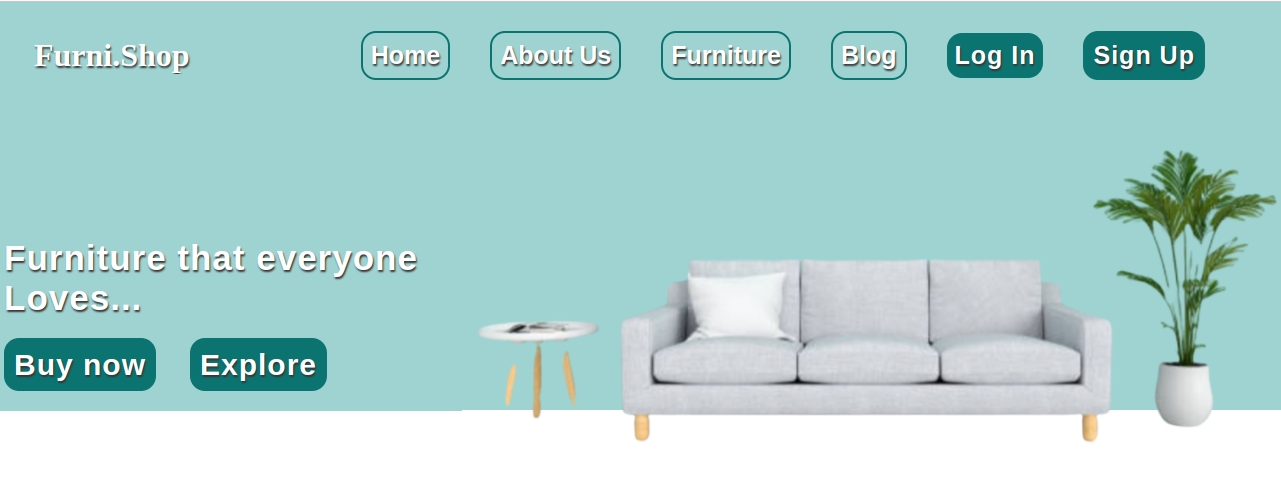
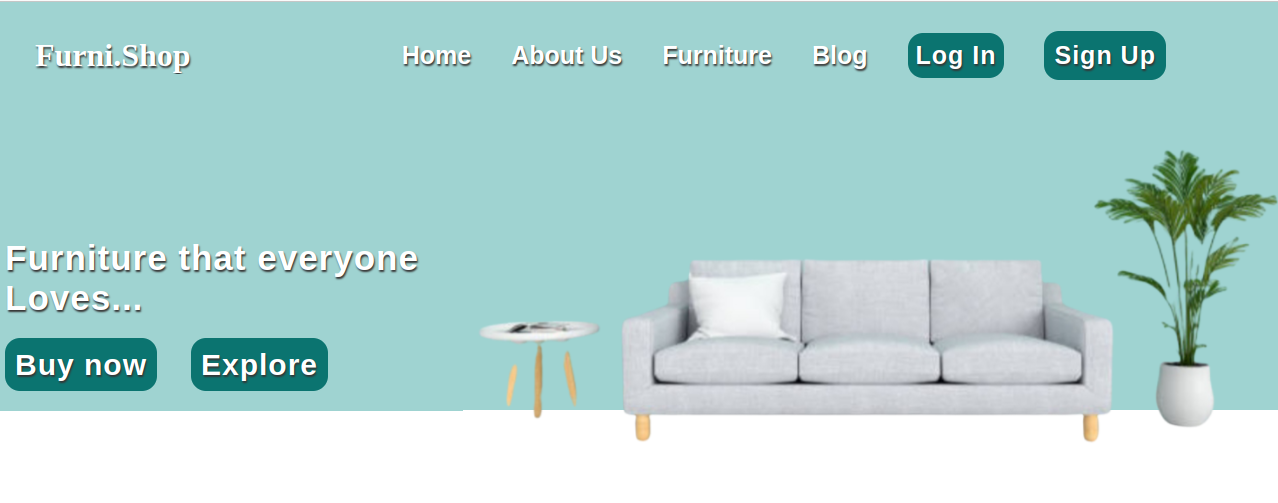
completely done

diff --git a/Project_furnishop/style.css b/Project_furnishop/style.css
@@ -1,5 +1,4 @@
-*{
-    margin: 0%;
+*{  margin: 0%;
     padding: 0%;
     }
 
@@ -56,17 +55,13 @@
 
  .same{
      color: #fff;
-     border: 2px solid #0b7470;
-     padding: 8px;
-     border-radius: 15px;
-     
+       
  }
 
 
 
 .log{
     letter-spacing: 1px;
-   
     padding: 8px;
     border-radius: 15px; 
     text-shadow: 1px 2px 2px rgb(53, 52, 52);
@@ -79,10 +74,8 @@
 .sign{
 
     letter-spacing: 1px;
-    
     padding: 10px;
     border-radius: 15px; 
-
     text-shadow: 1px 2px 2px rgb(53, 52, 52);
     background-color: #0b7470;
     color: #fff;
@@ -94,12 +87,10 @@
  main{
     background:linear-gradient( to bottom,#9fd3d1 70%,#fff 30%);
     height:80vh ;
-    
-    
+     
  }
 
- .up{
-    
+ .up{    
     display: flex;
     justify-content: center;
     align-items: center;
@@ -107,8 +98,7 @@
 
  }
  .up h2{
-     color: #fff;
-    
+    color: #fff;
     font-size: 35px;
     font-weight: bold;
     font-family: helvetica;
@@ -119,12 +109,12 @@
  }
 
  .buy{
+    color: #fff;
+    background-color: #0b7470;
     font-size: 30px;
     font-weight: 900;
     font-family: helvetica;
     text-decoration: none;
-    color: #fff;
-    background-color: #0b7470;
     letter-spacing: 1px;
     margin: 20px;
     padding: 10px;
@@ -134,12 +124,12 @@
  }
 
  .ex{
+    color: #fff;
+    background-color: #0b7470;
     font-size: 30px;
     font-weight: 900;
     font-family: helvetica;
     text-decoration: none;
-    background-color: #0b7470;
-    color: #fff;
     letter-spacing: 1px;
     margin-left: 10px;
     padding: 10px;
@@ -150,10 +140,9 @@
 
 
  .up img{
-    background:linear-gradient( to bottom,#9FD3D1 75%,#FFF 25%);
-    
     height: 400px;
     width: 820px;
+    background:linear-gradient( to bottom,#9FD3D1 75%,#FFF 25%);
  }
 
  .down{
@@ -167,29 +156,27 @@
      font-family: helvetica;
      padding: 30px;
      background-color:rgb(211, 211, 216) ;
-    width: 25%;
-    border: 2px solid grey ;
-    border-radius: 15px;
-    transition: all 0.9s linear;
+     border: 2px solid grey ;
+     border-radius: 15px;
+     transition: all 0.9s linear;
  }
 
- .text:hover{
-     transform: scale(0.9);
- }
+ .text:hover{transform: scale(0.9);}
+
+
  .visit{
      display: grid;
-     text-align: center;
-     
+     text-align: center;   
  }
 
 
  .visit1{
+    background-color: #0b7470;
+    color: #fff;
     font-size: 20px;
     font-weight: 900;
     font-family: helvetica;
     text-decoration: none;
-    background-color: #0b7470;
-    color: #fff;
     letter-spacing: 1px;
     padding: 15px;
     margin-top: 20px;
@@ -199,12 +186,12 @@
 
  
  .visit2{
+    background-color: #0b7470;
+    color: #fff;
     font-size: 20px;
     font-weight: 900;
     font-family: helvetica;
     text-decoration: none;
-    background-color: #0b7470;
-    color: #fff;
     letter-spacing: 1px;
     margin-top: 20px;
     padding-top: 100px;
@@ -213,8 +200,9 @@
     text-shadow: 1px 2px 2px rgb(53, 52, 52);
 }
 
- .chair{background-color:rgb(211, 211, 216) ;
+ .chair{
     width: 25%;
+    background-color:rgb(211, 211, 216) ;
     border: 2px solid grey ;
     border-radius: 15px;
     transition:all 0.9s linear ;
@@ -224,6 +212,8 @@
 .chair:hover{
     transform: scale(0.9);
 }
+
+
 .chair img{
     height: 250px;
     width: 380px;
@@ -241,22 +231,23 @@
 
 
 .bed{
-    background-color: rgb(211, 211, 216);
         width: 25%;
+        background-color:rgb(211, 211, 216) ;
         border: 2px solid grey ;
         border-radius: 15px;
         transition: all 0.9s linear;
     }
-    .bed:hover{
+
+.bed:hover{
         transform: scale(0.9);
     }
 
-    .bed img{
+.bed img{
         height: 250px;
         width: 300px;
     }
     
-    .bed h5{
+.bed h5{
         font-size: 25px;
         font-family: helvetica;
         font-weight: 500;
@@ -264,23 +255,25 @@
         margin-top: 10px;
     }  
 
-    .mirror{background-color:rgb(211, 211, 216);
+.mirror{
         width: 25%;
+        background-color:rgb(211, 211, 216) ;
         border: 2px solid grey ;
         border-radius: 15px;
         transition: all 0.9s linear;
     } 
 
- .mirror:hover{
-     transform: scale(0.9);
- }   
 
-    .mirror img{
+.mirror:hover{
+     transform: scale(0.9);}   
+
+
+.mirror img{
         height: 250px;
-        width: 300px;
-    }
+        width: 300px;}
+
     
-    .mirror h5{
+.mirror h5{
         font-size: 25px;
         font-family: helvetica;
         font-weight: 500;
